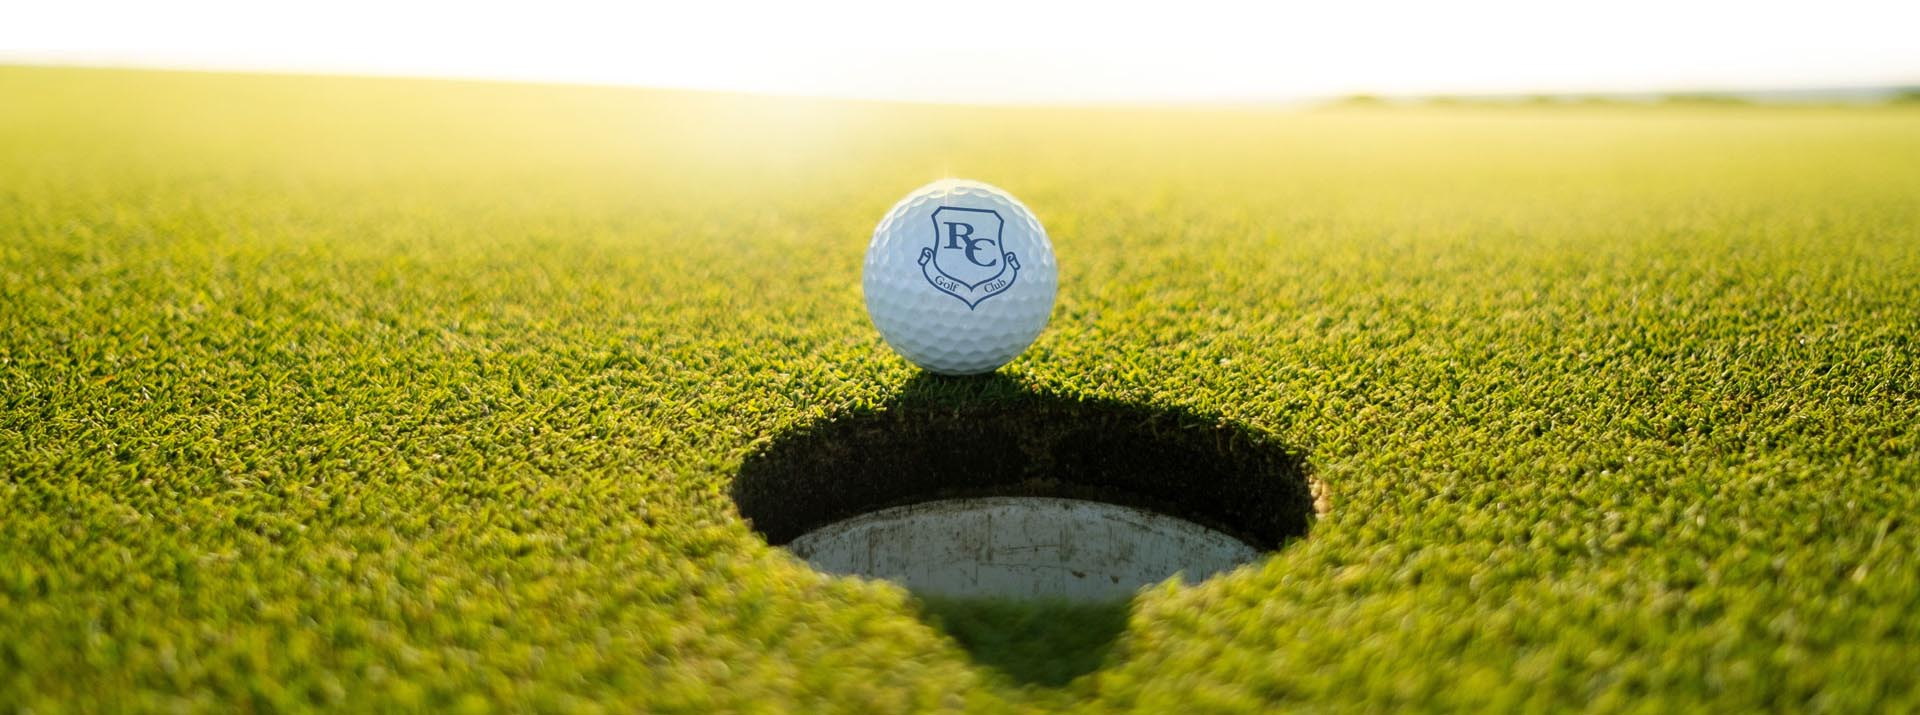
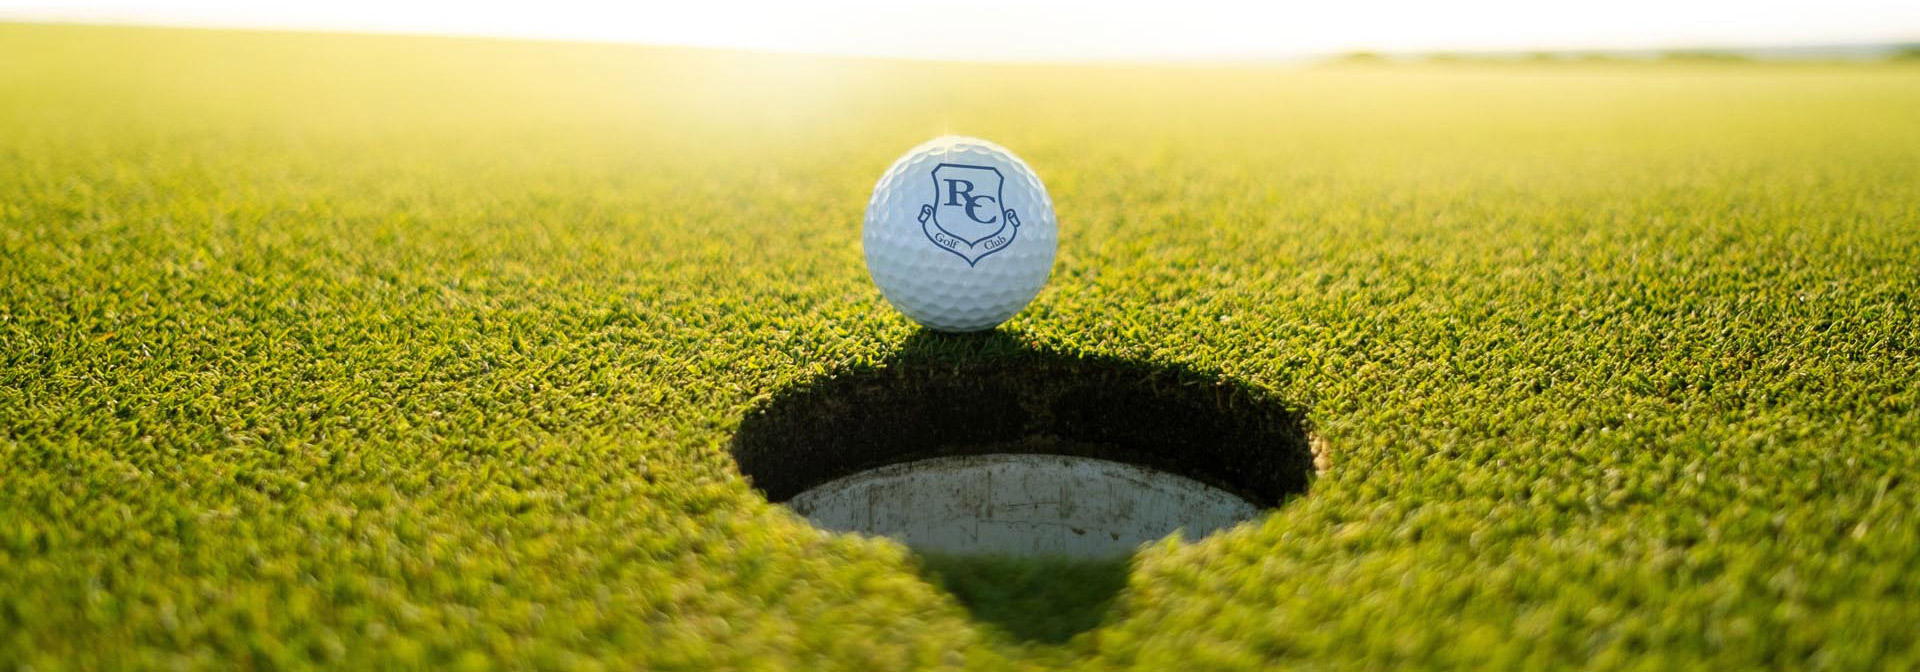
some design changes on homepage

diff --git a/rio-colorado-golf/client/src/index.css b/rio-colorado-golf/client/src/index.css
@@ -35,6 +35,14 @@ header {
 .home-hero {
   text-align: center;
   background: linear-gradient(to top, #ffffff, #c8dbfb);
+  position: sticky;
+  z-index: -50;
+  top: 1vh;
+}
+
+.text-logo img {
+  width: 35%;
+  position: absolute;
 }
 
 .header-img {
@@ -45,16 +53,11 @@ header {
   width: 25%;
 }
 
-.text-logo img {
-  width: 35%;
-  padding-top: 25px;
-}
-
 .text-logo {
   font-family: "lora", sans-serif;
   font-size: 6vw;
   color: #092d5b;
-  padding-top: 10px;
+  padding-top: 60px;
 }
 
 .crest-logo img {
@@ -107,6 +110,8 @@ button:hover {
 .intro-container {
   width: 75%;
   margin: 0 auto;
+  background-color: rgba(255, 255, 255, 1);
+  padding: 20px;
 }
 
 .intro-welcome {
@@ -147,9 +152,11 @@ a {
 .missing-container {
   width: 75%;
   margin: 0 auto;
+  background-color: rgba(255, 255, 255, 1);
+  padding: 20px;
 }
 .missing-header {
-  padding-top: 40px;
+  padding-top: 20px;
   text-align: center;
 }
 .missing-header h2 {

diff --git a/rio-colorado-golf/client/src/pages/Home.js b/rio-colorado-golf/client/src/pages/Home.js
@@ -1,6 +1,7 @@
 import React from "react";
 import crestLogo from "../../src/assets/img/riocolo-logo.png";
 import holeImage from "../../src/assets/img/riocolo-cup-slice.jpg";
+import holeImageGrad from "../../src/assets/img/riocolo-wht-gradient.png";
 import greenImage from "../../src/assets/img/riocolo-green.jpg";
 import Directions from "../components/Directions";
 import Footer from "../components/Footer";
@@ -15,7 +16,7 @@ const Home = () => {
             <img src={crestLogo} alt="Rio Colorado Logo" />
           </div>
         </section>
-
+        <img class="img-fluid w-100" src={holeImageGrad} />
         <img class="img-fluid w-100 img-shadow" src={holeImage} />
         <section class="intro-container">
           <div class="intro-welcome">
